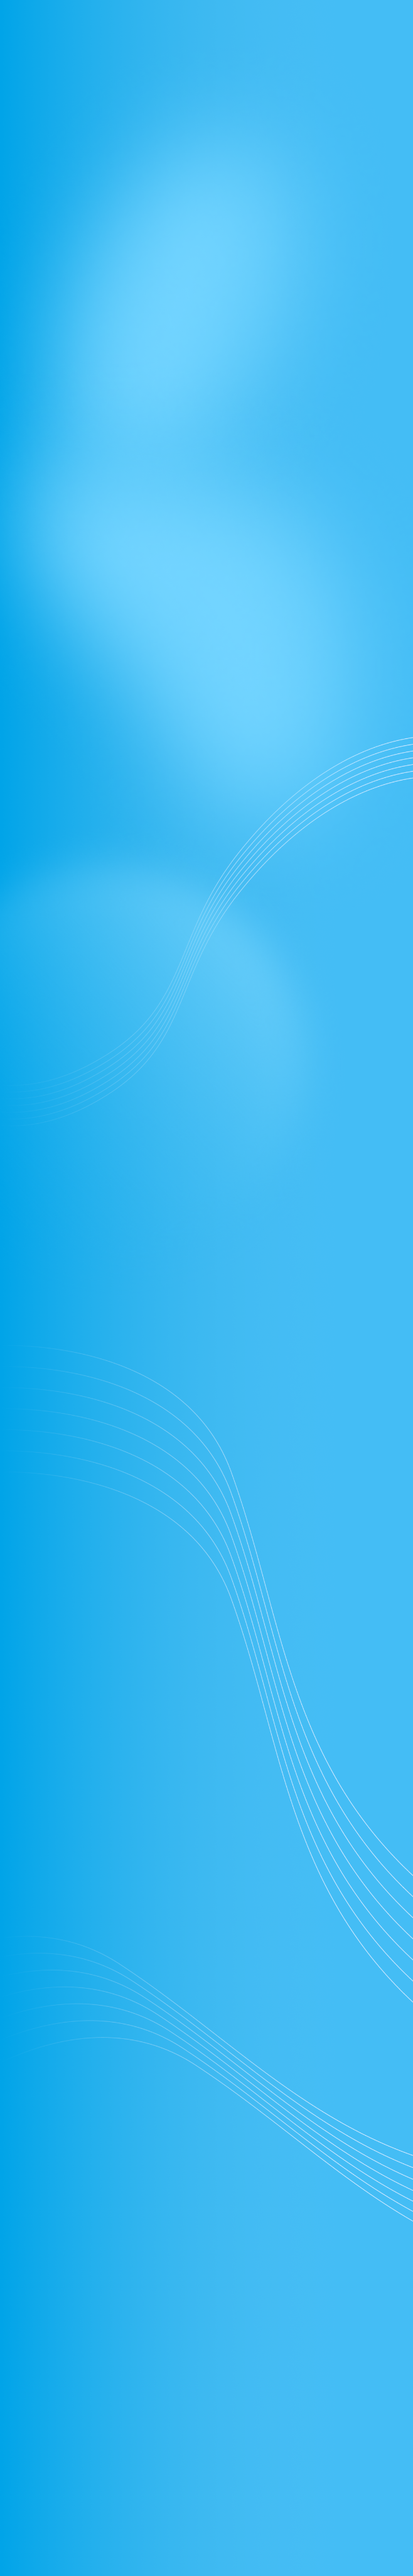
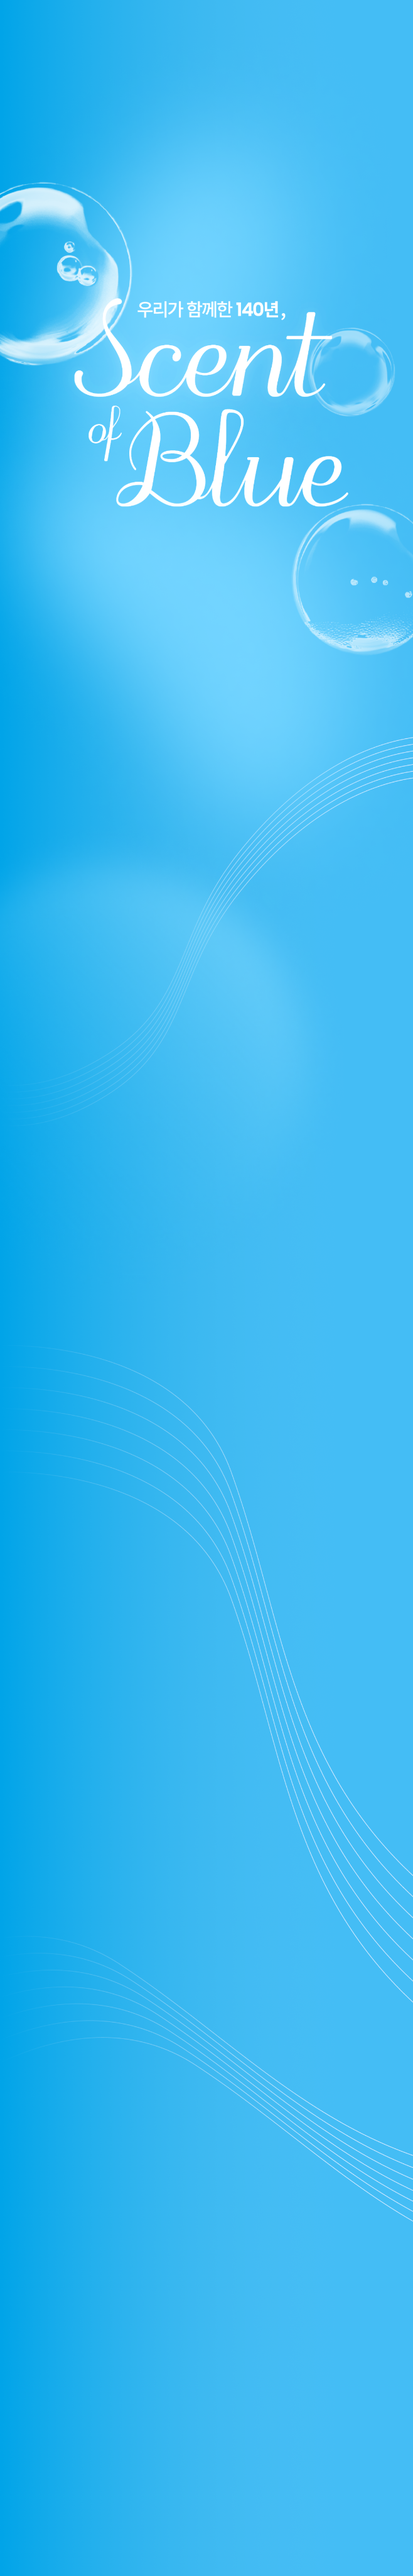
feat/ 배경이미지 수정, 카드 애니메이션 추가

Changed region(s): [[0.0, 0.0625, 1.0, 0.2812]]

diff --git a/components/motion-primitives/text-effect.tsx b/components/motion-primitives/text-effect.tsx
@@ -1,0 +1,291 @@
+'use client';
+import { cn } from '@/lib/utils';
+import {
+  AnimatePresence,
+  motion,
+  TargetAndTransition,
+  Transition,
+  Variant,
+  Variants,
+} from 'motion/react';
+import React from 'react';
+
+export type PresetType = 'blur' | 'fade-in-blur' | 'scale' | 'fade' | 'slide';
+
+export type PerType = 'word' | 'char' | 'line';
+
+export type TextEffectProps = {
+  children: string;
+  per?: PerType;
+  as?: keyof React.JSX.IntrinsicElements;
+  variants?: {
+    container?: Variants;
+    item?: Variants;
+  };
+  className?: string;
+  preset?: PresetType;
+  delay?: number;
+  speedReveal?: number;
+  speedSegment?: number;
+  trigger?: boolean;
+  onAnimationComplete?: () => void;
+  onAnimationStart?: () => void;
+  segmentWrapperClassName?: string;
+  containerTransition?: Transition;
+  segmentTransition?: Transition;
+  style?: React.CSSProperties;
+};
+
+const defaultStaggerTimes: Record<PerType, number> = {
+  char: 0.03,
+  word: 0.05,
+  line: 0.1,
+};
+
+const defaultContainerVariants: Variants = {
+  hidden: { opacity: 0 },
+  visible: {
+    opacity: 1,
+    transition: {
+      staggerChildren: 0.05,
+    },
+  },
+  exit: {
+    transition: { staggerChildren: 0.05, staggerDirection: -1 },
+  },
+};
+
+const defaultItemVariants: Variants = {
+  hidden: { opacity: 0 },
+  visible: {
+    opacity: 1,
+  },
+  exit: { opacity: 0 },
+};
+
+const presetVariants: Record<
+  PresetType,
+  { container: Variants; item: Variants }
+> = {
+  blur: {
+    container: defaultContainerVariants,
+    item: {
+      hidden: { opacity: 0, filter: 'blur(12px)' },
+      visible: { opacity: 1, filter: 'blur(0px)' },
+      exit: { opacity: 0, filter: 'blur(12px)' },
+    },
+  },
+  'fade-in-blur': {
+    container: defaultContainerVariants,
+    item: {
+      hidden: { opacity: 0, y: 20, filter: 'blur(12px)' },
+      visible: { opacity: 1, y: 0, filter: 'blur(0px)' },
+      exit: { opacity: 0, y: 20, filter: 'blur(12px)' },
+    },
+  },
+  scale: {
+    container: defaultContainerVariants,
+    item: {
+      hidden: { opacity: 0, scale: 0 },
+      visible: { opacity: 1, scale: 1 },
+      exit: { opacity: 0, scale: 0 },
+    },
+  },
+  fade: {
+    container: defaultContainerVariants,
+    item: {
+      hidden: { opacity: 0 },
+      visible: { opacity: 1 },
+      exit: { opacity: 0 },
+    },
+  },
+  slide: {
+    container: defaultContainerVariants,
+    item: {
+      hidden: { opacity: 0, y: 20 },
+      visible: { opacity: 1, y: 0 },
+      exit: { opacity: 0, y: 20 },
+    },
+  },
+};
+
+const AnimationComponent: React.FC<{
+  segment: string;
+  variants: Variants;
+  per: 'line' | 'word' | 'char';
+  segmentWrapperClassName?: string;
+}> = React.memo(({ segment, variants, per, segmentWrapperClassName }) => {
+  const content =
+    per === 'line' ? (
+      <motion.span variants={variants} className='block'>
+        {segment}
+      </motion.span>
+    ) : per === 'word' ? (
+      <motion.span
+        aria-hidden='true'
+        variants={variants}
+        className='inline-block whitespace-pre'
+      >
+        {segment}
+      </motion.span>
+    ) : (
+      <motion.span className='inline-block whitespace-pre'>
+        {segment.split('').map((char, charIndex) => (
+          <motion.span
+            key={`char-${charIndex}`}
+            aria-hidden='true'
+            variants={variants}
+            className='inline-block whitespace-pre'
+          >
+            {char}
+          </motion.span>
+        ))}
+      </motion.span>
+    );
+
+  if (!segmentWrapperClassName) {
+    return content;
+  }
+
+  const defaultWrapperClassName = per === 'line' ? 'block' : 'inline-block';
+
+  return (
+    <span className={cn(defaultWrapperClassName, segmentWrapperClassName)}>
+      {content}
+    </span>
+  );
+});
+
+AnimationComponent.displayName = 'AnimationComponent';
+
+const splitText = (text: string, per: 'line' | 'word' | 'char') => {
+  if (per === 'line') return text.split('\n');
+  return text.split(/(\s+)/);
+};
+
+const hasTransition = (
+  variant: Variant
+): variant is TargetAndTransition & { transition?: Transition } => {
+  return (
+    typeof variant === 'object' && variant !== null && 'transition' in variant
+  );
+};
+
+const createVariantsWithTransition = (
+  baseVariants: Variants,
+  transition?: Transition & { exit?: Transition }
+): Variants => {
+  if (!transition) return baseVariants;
+
+  const { exit: _, ...mainTransition } = transition;
+
+  return {
+    ...baseVariants,
+    visible: {
+      ...baseVariants.visible,
+      transition: {
+        ...(hasTransition(baseVariants.visible)
+          ? baseVariants.visible.transition
+          : {}),
+        ...mainTransition,
+      },
+    },
+    exit: {
+      ...baseVariants.exit,
+      transition: {
+        ...(hasTransition(baseVariants.exit)
+          ? baseVariants.exit.transition
+          : {}),
+        ...mainTransition,
+        staggerDirection: -1,
+      },
+    },
+  };
+};
+
+export function TextEffect({
+  children,
+  per = 'word',
+  as = 'p',
+  variants,
+  className,
+  preset = 'fade',
+  delay = 0,
+  speedReveal = 1,
+  speedSegment = 1,
+  trigger = true,
+  onAnimationComplete,
+  onAnimationStart,
+  segmentWrapperClassName,
+  containerTransition,
+  segmentTransition,
+  style,
+}: TextEffectProps) {
+  const segments = splitText(children, per);
+  const MotionTag = motion[as as keyof typeof motion] as typeof motion.div;
+
+  const baseVariants = preset
+    ? presetVariants[preset]
+    : { container: defaultContainerVariants, item: defaultItemVariants };
+
+  const stagger = defaultStaggerTimes[per] / speedReveal;
+
+  const baseDuration = 0.3 / speedSegment;
+
+  const customStagger = hasTransition(variants?.container?.visible ?? {})
+    ? (variants?.container?.visible as TargetAndTransition).transition
+        ?.staggerChildren
+    : undefined;
+
+  const customDelay = hasTransition(variants?.container?.visible ?? {})
+    ? (variants?.container?.visible as TargetAndTransition).transition
+        ?.delayChildren
+    : undefined;
+
+  const computedVariants = {
+    container: createVariantsWithTransition(
+      variants?.container || baseVariants.container,
+      {
+        staggerChildren: customStagger ?? stagger,
+        delayChildren: customDelay ?? delay,
+        ...containerTransition,
+        exit: {
+          staggerChildren: customStagger ?? stagger,
+          staggerDirection: -1,
+        },
+      }
+    ),
+    item: createVariantsWithTransition(variants?.item || baseVariants.item, {
+      duration: baseDuration,
+      ...segmentTransition,
+    }),
+  };
+
+  return (
+    <AnimatePresence mode='popLayout'>
+      {trigger && (
+        <MotionTag
+          initial='hidden'
+          animate='visible'
+          exit='exit'
+          variants={computedVariants.container}
+          className={className}
+          onAnimationComplete={onAnimationComplete}
+          onAnimationStart={onAnimationStart}
+          style={style}
+        >
+          {per !== 'line' ? <span className='sr-only'>{children}</span> : null}
+          {segments.map((segment, index) => (
+            <AnimationComponent
+              key={`${per}-${index}-${segment}`}
+              segment={segment}
+              variants={computedVariants.item}
+              per={per}
+              segmentWrapperClassName={segmentWrapperClassName}
+            />
+          ))}
+        </MotionTag>
+      )}
+    </AnimatePresence>
+  );
+}

diff --git a/src/app/(pages)/mainpage/page.tsx b/src/app/(pages)/mainpage/page.tsx
@@ -3,26 +3,39 @@ import DayCard from './components/day-card';
 import { DayCardData } from './components/day-card-data';
 import UnderBar from '@/app/_common/components/underbar';
 import Button from './components/button';
+import { InView } from '@/app/_core/components/in-view';
+import { Children } from 'react';
 
 export default function MainPage() {
   return (
     <div className='mainpage-background min-h-screen w-full'>
+      
       <TopBar title='' />
 
       <main className='flex flex-col'>
-        <div className='w-full h-[530px] mt-[121px] bg-[#44BDF5] bg-[url("/img/mainpage/mainpage-logo.png")]  bg-cover bg-center bg-no-repeat'></div>
 
-        <section className='w-full flex flex-col items-center gap-[48px] mt-10 mx-auto'>
+        <section className='w-full flex flex-col items-center gap-[48px] mt-[800px] mx-auto'>
           {DayCardData.map((card, idx) => (
-            <DayCard key={idx} image={card.image} texts={card.texts} />
+            <InView 
+              key={idx}
+              as="div"
+              variants={{
+                hidden: { opacity: 0, y: 100, filter: 'blur(4px)' },
+                visible: { opacity: 1, y: 0, filter: 'blur(0px)' },
+              }}
+              viewOptions={{ margin: '0px 0px -100px 0px' }}
+              transition={{ duration: 0.5, ease: 'easeInOut' }}
+            >
+            <DayCard image={card.image} texts={card.texts} />
+            </InView>
           ))}
         </section>
-
+        
         <div className='flex flex-col items-center gap-[22px] mt-[57px] mb-[87px]'>
           <Button href='/booth'>부스 정보 보러가기</Button>
-
-          <Button href='/booth'>공연 정보 보러가기</Button>
+          <Button href='/festival'>공연 정보 보러가기</Button>
         </div>
+
       </main>
       <footer className='flex items-center justify-center'>
         <UnderBar />

diff --git a/src/app/_core/components/in-view.tsx b/src/app/_core/components/in-view.tsx
@@ -1,0 +1,50 @@
+'use client';
+import { ReactNode, useRef } from 'react';
+import {
+  motion,
+  useInView,
+  Variant,
+  Transition,
+  UseInViewOptions,
+} from 'motion/react';
+
+export type InViewProps = {
+  children: ReactNode;
+  variants?: {
+    hidden: Variant;
+    visible: Variant;
+  };
+  transition?: Transition;
+  viewOptions?: UseInViewOptions;
+  as?: React.ElementType;
+};
+
+const defaultVariants = {
+  hidden: { opacity: 0 },
+  visible: { opacity: 1 },
+};
+
+export function InView({
+  children,
+  variants = defaultVariants,
+  transition,
+  viewOptions,
+  as = 'div',
+}: InViewProps) {
+  const ref = useRef(null);
+  const isInView = useInView(ref, viewOptions);
+
+  const MotionComponent = motion[as as keyof typeof motion] as typeof as;
+
+  return (
+    <MotionComponent
+      ref={ref}
+      initial='hidden'
+      animate={isInView ? 'visible' : 'hidden'}
+      variants={variants}
+      transition={transition}
+    >
+      {children}
+    </MotionComponent>
+  );
+}
